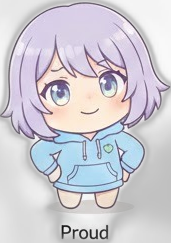
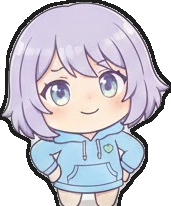
feat: GoTared tutor mascot with cleaned sprites, dark border, tutorial system

diff --git a/clean_sprites.py b/clean_sprites.py
@@ -1,0 +1,88 @@
+"""
+Clean GoTared sprites:
+1. Aggressively removes gray/checkered background artifacts
+2. Adds a bold dark border around the character for a Neo-Brutalist look
+"""
+import os
+import cv2
+import numpy as np
+
+avatars_dir = 'assets/avatars'
+
+def clean_and_border(img_path):
+    """Remove gray bg artifacts and add a bold outline border."""
+    img = cv2.imread(img_path, cv2.IMREAD_UNCHANGED)
+    if img is None:
+        print(f"  SKIP: {img_path}")
+        return
+    
+    if img.shape[2] != 4:
+        print(f"  SKIP (no alpha): {img_path}")
+        return
+    
+    h, w = img.shape[:2]
+    
+    # --- Step 1: Aggressive background cleanup ---
+    alpha = img[:, :, 3].copy()
+    bgr = img[:, :, :3]
+    
+    # Calculate how "gray" each pixel is (low saturation = gray/white bg)
+    hsv = cv2.cvtColor(bgr, cv2.COLOR_BGR2HSV)
+    saturation = hsv[:, :, 1]
+    value = hsv[:, :, 2]
+    
+    # Gray pixels: low saturation AND semi-transparent
+    # These are the checkered/gray bg artifacts
+    gray_mask = (saturation < 30) & (alpha < 200) & (alpha > 0)
+    alpha[gray_mask] = 0
+    
+    # Also kill very faint pixels (alpha < 80)
+    alpha[alpha < 80] = 0
+    
+    # Make remaining pixels fully opaque for clean edges
+    alpha[alpha >= 80] = 255
+    
+    img[:, :, 3] = alpha
+    
+    # --- Step 2: Auto-crop to content ---
+    coords = cv2.findNonZero(alpha)
+    if coords is None:
+        print(f"  SKIP (empty): {img_path}")
+        return
+    
+    x, y, cw, ch = cv2.boundingRect(coords)
+    pad = 8
+    x = max(0, x - pad)
+    y = max(0, y - pad)
+    cw = min(w - x, cw + pad * 2)
+    ch = min(h - y, ch + pad * 2)
+    img = img[y:y+ch, x:x+cw]
+    alpha = img[:, :, 3]
+    
+    # --- Step 3: Add bold border around the character ---
+    # Dilate the alpha mask to create an outline
+    border_size = 3
+    kernel = np.ones((border_size * 2 + 1, border_size * 2 + 1), np.uint8)
+    dilated = cv2.dilate(alpha, kernel, iterations=1)
+    
+    # Border = dilated minus original alpha
+    border_mask = (dilated > 127) & (alpha < 127)
+    
+    # Draw the border in dark color (near-black with full opacity)
+    img[border_mask, 0] = 30   # B
+    img[border_mask, 1] = 30   # G
+    img[border_mask, 2] = 30   # R
+    img[border_mask, 3] = 255  # A (fully opaque)
+    
+    cv2.imwrite(img_path, img)
+    print(f"  OK: {img_path} ({img.shape[1]}x{img.shape[0]})")
+
+
+# Process all gotared sprites
+sprites = sorted([f for f in os.listdir(avatars_dir) if f.startswith('gotared_') and f.endswith('.png')])
+print(f"Processing {len(sprites)} GoTared sprites...")
+for fname in sprites:
+    path = os.path.join(avatars_dir, fname)
+    clean_and_border(path)
+
+print("\nDone! Sprites cleaned + bordered.")

diff --git a/processor.py b/processor.py
@@ -1,0 +1,66 @@
+import os
+import cv2
+import numpy as np
+
+os.makedirs('assets/avatars', exist_ok=True)
+
+image = cv2.imread('gotared_alpha.png', cv2.IMREAD_UNCHANGED)
+if image is None:
+    print("Failed to load gotared_alpha.png")
+    exit(1)
+
+alpha = image[:, :, 3]
+
+# Threshold alpha to be strictly binary
+_, bin_alpha = cv2.threshold(alpha, 127, 255, cv2.THRESH_BINARY)
+
+contours, _ = cv2.findContours(bin_alpha, cv2.RETR_EXTERNAL, cv2.CHAIN_APPROX_SIMPLE)
+
+min_area = 3000
+bboxes = []
+for cnt in contours:
+    x, y, w, h = cv2.boundingRect(cnt)
+    area = w * h
+    if area > min_area:
+        aspect_ratio = w / float(h)
+        # Filter out wide title text at the very top
+        if aspect_ratio < 3.0:
+            bboxes.append((x, y, w, h))
+
+print(f"Found {len(bboxes)} bounding boxes before sorting.")
+
+bboxes.sort(key=lambda b: b[1])
+rows = []
+current_row = []
+if bboxes:
+    current_y = bboxes[0][1]
+    for b in bboxes:
+        if abs(b[1] - current_y) > 100:
+            current_row.sort(key=lambda x: x[0])
+            rows.append(current_row)
+            current_row = [b]
+            current_y = b[1]
+        else:
+            current_row.append(b)
+    if current_row:
+        current_row.sort(key=lambda x: x[0])
+        rows.append(current_row)
+
+    idx = 1
+    for r_idx, r in enumerate(rows):
+        print(f"Row {r_idx} has {len(r)} items")
+        for (x, y, w, h) in r:
+            crop = image[y:y+h, x:x+w].copy()
+            
+            # Remove label text at the bottom by cropping bottom 15%
+            crop_h = int(h * 0.85)
+            crop = crop[0:crop_h, :, :]
+            print(f"  gotared_{idx}: cropped to {crop_h}/{h}")
+            
+            # Clean up any semi-transparent gray pixels (from checkered bg)
+            a = crop[:, :, 3]
+            # Make near-transparent pixels fully transparent
+            crop[:, :, 3] = np.where(a < 30, 0, a)
+            
+            cv2.imwrite(f'assets/avatars/gotared_{idx}.png', crop)
+            idx += 1
